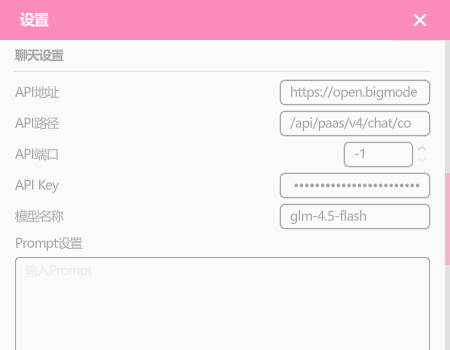
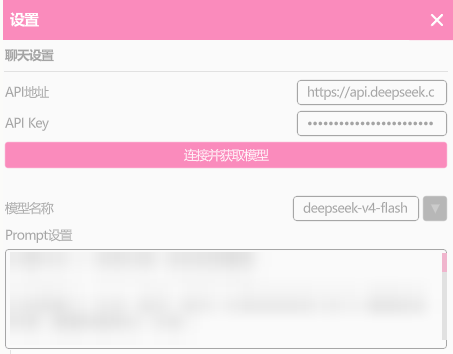
换掉设置页截图：改成本项目自己截的，并把界面文字对齐
README 里的 chat_settings.png 一直是上游 MelanTech/Dororo 的那张（git blob
哈希完全相同），展示的是他那一版的界面 —— 上面有「API路径」「API端口」两个
本项目早就删掉的输入框，填的还是智谱的地址和 glm-4.5-flash。

而 README 正文写的是 DeepSeek、只填一个地址。也就是说文字和配图在打架：
照文字填的人看图会懵，照图找的人找不到那两个框。这比授权问题更要命 ——
不是不合规，是会把人带沟里。

换成本项目自己截的（2026-08-26），Prompt 内容打码。顺带修掉三处 README 与
实际界面对不上的文字：

  「API 地址」        -> 「API地址」（界面上没空格）
  「连接并获取模型列表」-> 「连接并获取模型」（界面上没有「列表」二字）
  「提示词」          -> 「Prompt设置」（界面上就叫这个）

README 之前重写时把这张图整个漏掉了，现在补回聊天设置那一节。

NOTICE 里如实注明：剩下 6 个演示 GIF 和 head.png 仍是上游的（字节相同，
同为 GPL-3.0，同一个 app 同一个模型的录屏），将来换成自己录的。

diff --git a/README.md b/README.md
@@ -68,15 +68,20 @@
 
 | 填哪里 | 填什么 |
 |---|---|
-| API 地址 | `https://api.deepseek.com` |
+| API地址 | `https://api.deepseek.com` |
 | API Key | 你申请到的那串 |
 | 模型名称 | `deepseek-v4-flash` |
 
-不知道有什么模型可以选？点一下「连接并获取模型列表」就能看到。
+<div align="center">
+<img src="./docs/media/chat_settings.png" width="420">
+<p>填好大概长这样（我的性格那段打码了，你那儿是能看见的）</p>
+</div>
+
+不知道有什么模型可以选？点一下「连接并获取模型」，能连上就说明填对了，可用的模型也会列出来。
 
 填好之后关掉设置，中键 → 聊天，就能跟我说话了。
 
-在设置最下面有个「提示词」的框，那个是我的性格。人想让我变一个样子的话，改那里就行。
+下面那个「Prompt设置」的框，装的是我的性格。人想让我变一个样子的话，改那里就行。
 
 **也能用别的：** 只要是兼容 OpenAI 接口的都行 —— Ollama 跑本地模型、智谱清言、讯飞星火，都可以。把 API 地址换成对应的就好，别的不用改。
 
